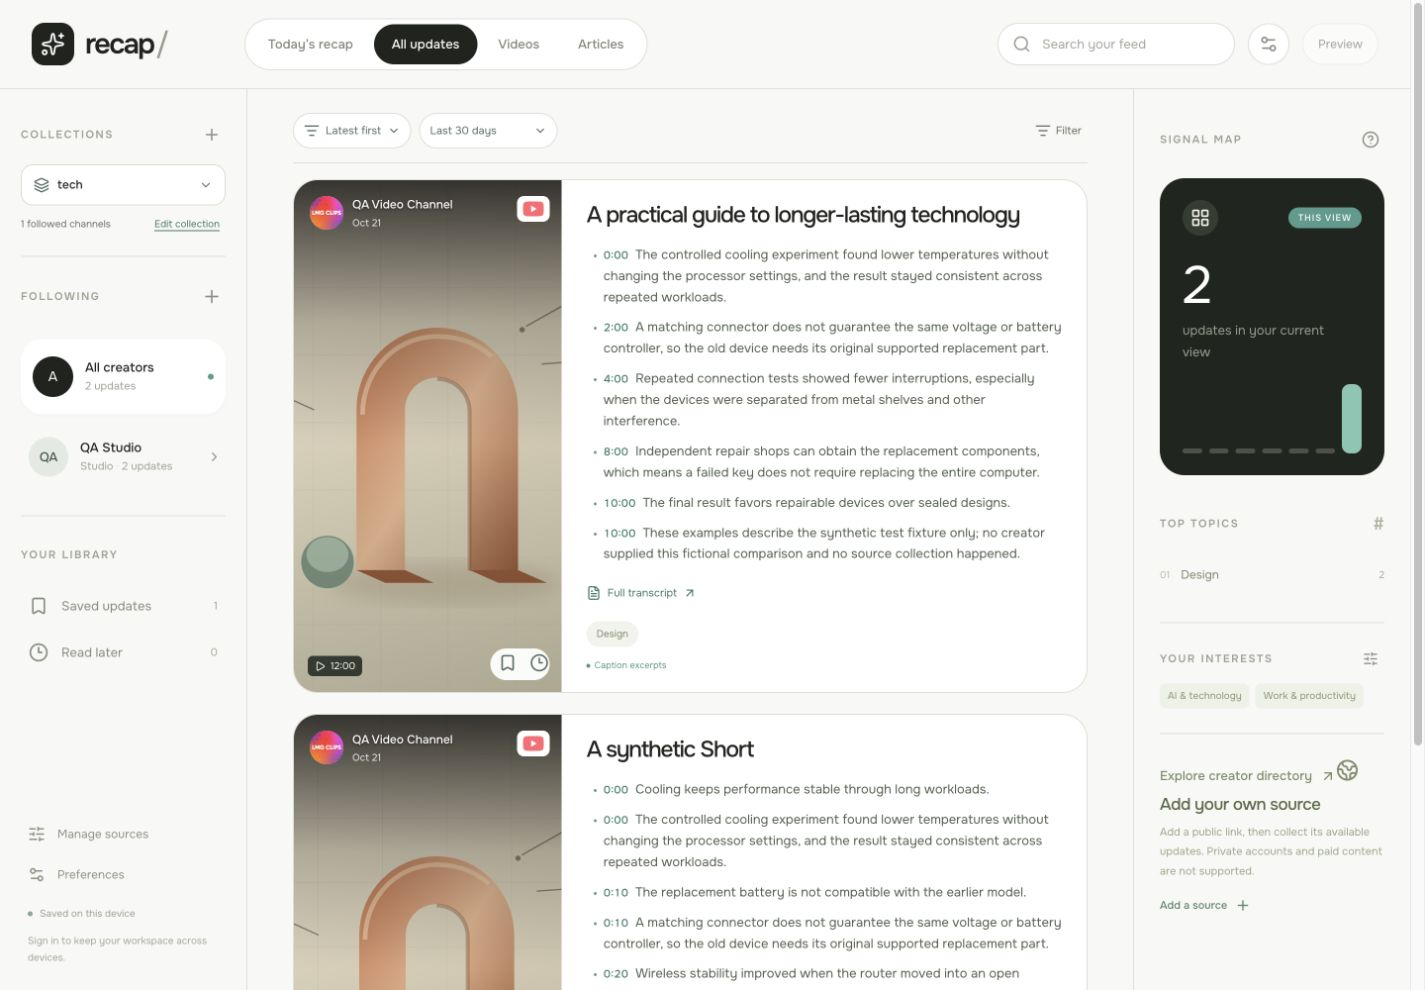
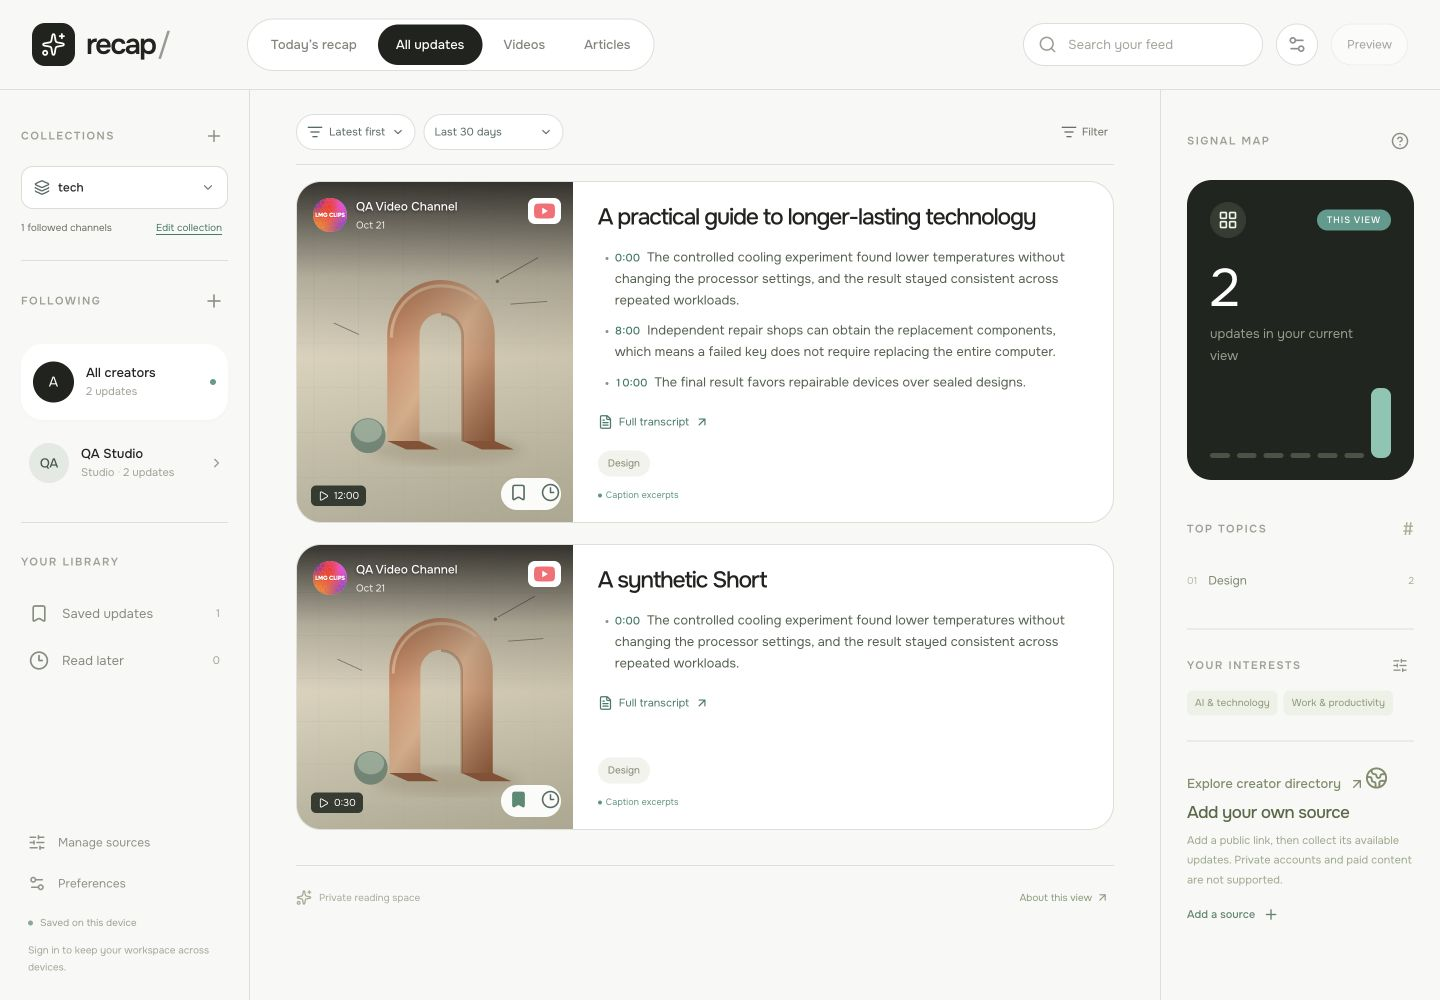
Keep short-video highlights brief

diff --git a/tests/video.test.ts b/tests/video.test.ts
@@ -47,13 +47,44 @@ describe('extractive video highlights', () => {
     expect(points.map(point => point.startSeconds)).toEqual(points.map(point => point.startSeconds).sort((a, b) => a! - b!));
     points.forEach(point => expect(transcriptSegments.some(segment => segment.text === point.text && segment.startSeconds === point.startSeconds)).toBe(true));
   });
+  it('gives an approximately 800-character Short two points spanning its beginning and ending', () => {
+    const sentences = [
+      'The navigation redesign puts destination searches directly above the map and keeps route changes visible.',
+      'Drivers can compare alternate routes before departure without leaving the destination overview screen.',
+      'The interface retains saved locations so frequent trips do not require entering the same address again.',
+      'Road closures now appear beside the selected route with the affected junction named in the warning.',
+      'Offline downloads include street names and turn instructions for areas without a cellular connection.',
+      'Downloaded regions can be updated individually when the driver next connects to a wireless network.',
+      'Battery consumption fell during the controlled offline test because the cellular modem stayed idle.',
+      'The final test found that downloaded directions remained usable after the phone lost mobile reception.',
+    ];
+    const transcriptSegments = sentences.map((text, index) => ({ text, startSeconds: index * 6 }));
+    const content = sentences.join(' ');
+    expect(content.length).toBeGreaterThan(700); expect(content.length).toBeLessThan(1400);
+    const points = getVideoHighlights(update({ contentKind: 'transcript', content, transcriptSegments, duration: '0:48', isShort: true }));
+    expect(points).toHaveLength(2);
+    expect(points[0].startSeconds).toBeLessThan(24);
+    expect(points[1].startSeconds).toBeGreaterThanOrEqual(24);
+    points.forEach(point => expect(transcriptSegments).toContainEqual({ text: point.text, startSeconds: point.startSeconds }));
+  });
+  it('uses one salient point for brief captions and retains six for substantial content', () => {
+    const brief = 'The hardware test found lower power consumption under the same controlled workload. The result does not establish better battery life under every condition.';
+    expect(getVideoHighlights(update({ contentKind: 'transcript', content: brief }))).toHaveLength(1);
+    const subjects = ['processor throughput silicon architecture', 'camera focus optical stabilisation', 'battery charging electrical efficiency', 'display contrast colour accuracy', 'keyboard repair replacement switches', 'network stability ethernet latency'];
+    const transcriptSegments = subjects.flatMap((subject, section) => Array.from({ length: 10 }, (_, index) => ({ startSeconds: section * 600 + index * 20, text: `The ${subject} test ${index} found a measurable improvement under controlled conditions.` })));
+    const points = getVideoHighlights(update({ transcriptSegments, duration: '1:00:00' }));
+    expect(points).toHaveLength(6);
+    expect(points[0].startSeconds).toBeLessThan(600);
+    expect(points.at(-1)?.startSeconds).toBeGreaterThanOrEqual(3000);
+    expect(points.every(point => transcriptSegments.some(segment => segment.text === point.text && segment.startSeconds === point.startSeconds))).toBe(true);
+  });
   it('does not summarize a title, description or short saved summary as full video content', () => {
     expect(getVideoHighlights(update())).toEqual([]);
     expect(getVideoHighlights(update({ contentKind: 'metadata_only', content: 'The product launch description contains many detailed claims.' }))).toEqual([]);
     expect(getVideoHighlights(update({ contentKind: 'feed_text', content: 'A long publisher description with enough words for extraction.' }))).toEqual([]);
   });
   it('keeps the complete negative sentence and never invents times for plain transcripts', () => {
-    const content = 'The replacement battery is not compatible with the earlier model despite using the same connector. The external display supports higher resolutions because the cable carries additional bandwidth.';
+    const content = 'The replacement battery is not compatible with the earlier model despite using the same connector.';
     const points = getVideoHighlights(update({ contentKind: 'transcript', content, duration: '130 min' }));
     expect(points.some(point => point.text === 'The replacement battery is not compatible with the earlier model despite using the same connector.')).toBe(true);
     expect(points.every(point => point.startSeconds === undefined)).toBe(true);

diff --git a/src/lib/video.ts b/src/lib/video.ts
@@ -5,6 +5,7 @@ export type TranscriptSegment = NonNullable<SourceUpdate['transcriptSegments']>[
 
 const MAX_HIGHLIGHTS = 6;
 const EXCERPT_LENGTH = 230;
+const TRANSCRIPT_CHARACTERS_PER_POINT = 700;
 const validSeconds = (value: unknown): value is number => typeof value === 'number' && Number.isFinite(value) && value >= 0 && value <= Number.MAX_SAFE_INTEGER;
 const cleanText = (value: string): string => value.replace(/<\/?[a-z][^>]*>|<\d{2}:\d{2}(?::\d{2})?[.,]\d{3}>/gi, '').replace(/&(?:amp|quot|apos|nbsp|lt|gt|#39);/gi, entity => ({ '&amp;': '&', '&quot;': '"', '&apos;': "'", '&nbsp;': ' ', '&lt;': '<', '&gt;': '>', '&#39;': "'" })[entity.toLowerCase()] || entity).replace(/\s+/g, ' ').trim();
 
@@ -188,7 +189,10 @@ export function getVideoHighlights(update: SourceUpdate): VideoHighlight[] {
     }
   }
   const chosen: Candidate[] = [];
-  const windows = Math.min(MAX_HIGHLIGHTS, candidates.length);
+  // A Short should not receive the same six-point treatment as a substantial video.
+  // Budget against the full caption text before choosing across chronological regions.
+  const pointBudget = Math.min(MAX_HIGHLIGHTS, Math.ceil(text.length / TRANSCRIPT_CHARACTERS_PER_POINT));
+  const windows = Math.min(pointBudget, candidates.length);
   if (!windows) return [];
   // One salient excerpt per chronological region prevents an introduction-only recap.
   for (let window = 0; window < windows; window++) {

diff --git a/docs/design/YOUTUBE-CARDS.md b/docs/design/YOUTUBE-CARDS.md
@@ -6,7 +6,7 @@
 
 Reuse the existing Onest typeface and palette: canvas `#f8f8f6`, paper `#ffffff`, ink `#20231f`, lines `#dedfd9`, teal `#519c8d`, supporting text `#687163`. Channel icon/name/date sit over a restrained thumbnail gradient; the reading area contains title, highlights, Full transcript and existing save/topic controls. YouTube's thumbnail badge is its icon only. Cards omit the repeated YouTube byline and “Published by” row. Other platforms keep their existing card design.
 
-Highlights are deterministic **caption excerpts**, selected across the entire available transcript, with up to six meaningful, diverse points in source order. This is extractive summarization, not a generated AI recap. Real caption cues supply video-minute links; text position or video duration never invents a timestamp. Descriptions/titles without captions do not become pretend full-content summaries. Full transcript renders all saved caption text without the old 1,400-character detail-extract limit. Source coverage remains separate from complete audiovisual coverage.
+Highlights are deterministic **caption excerpts**, selected across the entire available transcript, with up to six meaningful, diverse points in source order. Brief captions receive fewer points (one per approximately 700 characters) instead of padding every Short to six. This is extractive summarization, not a generated AI recap. Real caption cues supply video-minute links; text position or video duration never invents a timestamp. Descriptions/titles without captions do not become pretend full-content summaries. Full transcript renders all saved caption text without the old 1,400-character detail-extract limit. Source coverage remains separate from complete audiovisual coverage.
 
 Show Shorts is available when adding a YouTube source and on its existing Manage sources row. Default visibility stays on for existing accounts. The preference belongs to the reader/source and uses the existing private workspace save path. Hidden Shorts stay followed, collected, archived, saved/exportable and reversible; the preference filters display only. Explicit provider format or a Shorts URL establishes identity; duration alone does not. No schedule is activated.
 
@@ -20,12 +20,12 @@ The enrichment script prepares private backups and owner-scoped, revision-checke
 
 ## Verification
 
-- **457 tests / 15 files**, TypeScript, production build and unchanged catalogue reproducibility passed through `npm run check`. A separate read-only React/card review found no release blocker. The existing bundle-size warning remains.
+- **459 tests / 15 files**, TypeScript, production build and unchanged catalogue reproducibility passed through `npm run check`. A separate read-only React/card review found no release blocker. The existing bundle-size warning remains.
 - Synthetic browser checks at **1440, 1051, 390 and 320px** passed without horizontal overflow. The compact toolbar remains one row. Channel images loaded; identity stays over the image, with save/read-later at the opposite bottom corner from duration. No repeated platform/publisher row or raw-summary text appears on the card.
-- Six actual fixture cue links, late-video points, a **1,508-character** transcript including its end marker, and persistent Shorts hide → reload → re-enable passed. Adding a video source with Shorts off persisted after reload without starting collection. Export retained both stored synthetic videos and the saved Short. Guest test state and viewport were restored.
+- Actual fixture cue links, late-video points, a **1,508-character** transcript including its end marker, and persistent Shorts hide → reload → re-enable passed. Adding a video source with Shorts off persisted after reload without starting collection. Export retained both stored synthetic videos and the saved Short. Guest test state and viewport were restored.
 - Actual database readback at **21:41:05 UTC** matched all **184 planned video records** exactly, retained all **278 record IDs**, and matched the planned workspace exactly. Existing follows, bookmarks, settings and unrelated data were preserved. **38 explicit Shorts flags**, **171 complete timing arrays**, **13 source avatars** and **two verified long-caption restorations** are present. [Sanitized readback evidence](evidence/youtube-metadata-readback.json). Private before/after backups, caption exports and SQL remain ignored.
-- Across the actual archive, 171 videos produce linked excerpts, four produce untimed caption excerpts and nine have no captions. The maximum is six points; 165 cards yield six. These are source excerpts rather than generated AI summaries.
+- Across the actual archive, 171 videos produce linked excerpts, four produce untimed caption excerpts and nine have no captions. The maximum is six points; 135 cards yield six; the 38 Shorts use one to four points. These are source excerpts rather than generated AI summaries.
 
 [Synthetic desktop screenshot](evidence/youtube-cards-desktop-fixture.png) · [Synthetic phone screenshot](evidence/youtube-cards-mobile-fixture.png). These show fictional test content, not collected creator claims.
 
-GitHub CI, exact Netlify publication and signed-in owner evidence follow below after release. No paid supplier/model execution or generated transcription was started; hosting/build/database usage remains unmeasured.
+Initial functional `d661db1` passed [CI 39680980113](https://github.com/raduvlad92/recap/actions/runs/39680980113) and exact Netlify deploy `6ad932044737ddb5c69ff2c8` published at **21:43:56 UTC**. Signed-in owner checks verified real channel icons/cue links, the full **226,113-character** restored transcript, persistent Shorts hide/reload/re-enable, synced state and 1496/390px layout without overflow. A second live database read confirmed unchanged archive data and only the expected explicit source visibility preference. [Preference readback](evidence/youtube-preference-readback.json). Final release below includes the short-caption bullet reduction prompted by that live review. No paid supplier/model execution or generated transcription was started; hosting/build/database usage remains unmeasured.

diff --git a/docs/DEMO-LOG.md b/docs/DEMO-LOG.md
@@ -161,7 +161,7 @@ No new source collection/provider run, generated transcription, AI synthesis, sc
 
 ## 21 October 2026 — D24 YouTube cards and Shorts, local and data checks complete
 
-Scoped founder video-card request implemented: channel identity overlays the thumbnail, actual icons and YouTube logo, caption-derived bullet highlights, full transcript, and private Show Shorts controls during source add/update. Hidden Shorts remain in collection/archive/exports and return on re-enable. [Design and exact evidence](design/YOUTUBE-CARDS.md). Final local suite: 457 tests, typecheck/build and unchanged catalogue reproduction. Synthetic local checks verified cue links, removed duplicate platform/publisher text, full-transcript access and persistent hide/re-enable; app export retains synthetic records and the saved Short. This is fixture evidence, not actual owner release proof.
+Scoped founder video-card request implemented: channel identity overlays the thumbnail, actual icons and YouTube logo, caption-derived bullet highlights, full transcript, and private Show Shorts controls during source add/update. Hidden Shorts remain in collection/archive/exports and return on re-enable. [Design and exact evidence](design/YOUTUBE-CARDS.md). Final local suite: 459 tests, typecheck/build and unchanged catalogue reproduction. Synthetic local checks verified cue links, removed duplicate platform/publisher text, full-transcript access and persistent hide/re-enable; app export retains synthetic records and the saved Short. This is fixture evidence, not actual owner release proof.
 
 Bounded direct YouTube caption retrieval produced 171 complete timing arrays; three truncated exports and one unavailable video retain saved plaintext without guessed links. Existing raw metadata established 184 exact video identities and 38 explicit Shorts. All 28 revision-checked metadata batches applied; exact readback confirmed 278 retained IDs, all 184 planned video records, 13 icons, two restored long captions and unchanged unrelated owner state. Backups/exports stay private; no supplier jobs/model execution/generated transcription. Final release/CI/deploy/owner proof remain pending. Hosting/build/database costs are not measured.
 

diff --git a/STATUS.md b/STATUS.md
@@ -4,7 +4,7 @@ Updated: **21 October 2026**. Phase: **functioning v0, admin, creator catalogue 
 
 ## Current increment: YouTube cards and Shorts visibility (D24)
 
-Founder requested channel identity/icon over the YouTube thumbnail, an icon-only YouTube badge, no repeated platform/publisher text, up to six caption-derived bullets with real minute links, a full-transcript view and per-source Shorts visibility that preserves collection/history. UI, private preferences, metadata validation and pipeline changes are implemented. Timed captions were recovered directly from YouTube for 171 already-captioned archived videos; no new scraper job or generated transcription. Exact readback verified 184 video metadata updates, 13 channel icons, two restored long captions and retention of all 278 records and unrelated owner data. [Design, scope and exact verification](docs/design/YOUTUBE-CARDS.md). All 457 tests, typecheck/build/catalogue and synthetic 1440/1051/390/320px, full-transcript and persistent Shorts add/hide/reload/re-enable checks passed; release verification is in progress. Broader SPEC/PLAN v1.1 remains unapproved.
+Founder requested channel identity/icon over the YouTube thumbnail, an icon-only YouTube badge, no repeated platform/publisher text, up to six caption-derived bullets with real minute links, a full-transcript view and per-source Shorts visibility that preserves collection/history. UI, private preferences, metadata validation and pipeline changes are implemented. Timed captions were recovered directly from YouTube for 171 already-captioned archived videos; no new scraper job or generated transcription. Exact readback verified 184 video metadata updates, 13 channel icons, two restored long captions and retention of all 278 records and unrelated owner data. [Design, scope and exact verification](docs/design/YOUTUBE-CARDS.md). All 459 tests, typecheck/build/catalogue and synthetic 1440/1051/390/320px, full-transcript and persistent Shorts add/hide/reload/re-enable checks passed; release verification is in progress. Broader SPEC/PLAN v1.1 remains unapproved.
 
 ## Historical D23 checkpoint: compact reading column
 

diff --git a/PLAN.md b/PLAN.md
@@ -10,7 +10,7 @@ The founder explicitly requested autonomous implementation on 21 October (D20). 
 
 ## Current authorized video-card increment — D24
 
-Deliver the founder's YouTube thumbnail identity/icons, up to six caption-derived minute-linked bullets, full transcript and persistent per-source Show Shorts controls. Keep hidden Shorts collected, retained and exportable; preserve source identities and private owner state. [Design and verification](docs/design/YOUTUBE-CARDS.md). UI/persistence/pipeline work, 171-video complete timestamp recovery, exact existing-row enrichment and 457-test/typecheck/build/catalogue plus responsive local checks are done. Complete GitHub CI, exact deployment and actual signed-in owner verification next. All 278 records and unrelated owner state were preserved. No new supplier subscription/job, model execution, generated transcription or recurring collection is included.
+Deliver the founder's YouTube thumbnail identity/icons, up to six caption-derived minute-linked bullets, full transcript and persistent per-source Show Shorts controls. Keep hidden Shorts collected, retained and exportable; preserve source identities and private owner state. [Design and verification](docs/design/YOUTUBE-CARDS.md). UI/persistence/pipeline work, 171-video complete timestamp recovery, exact existing-row enrichment and 459-test/typecheck/build/catalogue plus responsive local checks are done. Complete GitHub CI, exact deployment and actual signed-in owner verification next. All 278 records and unrelated owner state were preserved. No new supplier subscription/job, model execution, generated transcription or recurring collection is included.
 
 ## Historical authorized design increment — D23
 

diff --git a/docs/DECISIONS.md b/docs/DECISIONS.md
@@ -34,7 +34,7 @@ Original requested product behavior: topics rather than a simple post list; snip
 
 Founder requested channel name/date and real channel icon on the thumbnail; icon-only YouTube badge; no repeated YouTube/publisher line; up to six bullet points from the whole content linking to video minutes; a full-transcript button; and per-video-source Shorts visibility without stopping collection or losing already pulled items. This authorizes the scoped UI, reader preference and bounded existing-video caption/metadata enrichment, not new supplier jobs, generated transcription, paid model calls or schedules. Actual caption excerpts and real timing remain distinct from an AI-written recap. [Implementation and evidence](design/YOUTUBE-CARDS.md).
 
-D24 local/data checks pass: 457 tests, typecheck/build/catalogue, responsive fixture checks and complete existing-record readback. Final CI/deploy/owner evidence is tracked in the design record. No supplier/model execution or generated transcription.
+D24 local/data checks pass: 459 tests, typecheck/build/catalogue, responsive fixture checks and complete existing-record readback. Final CI/deploy/owner evidence is tracked in the design record. No supplier/model execution or generated transcription.
 
 ## D23 — compact reading column, 21 October 2026
 
